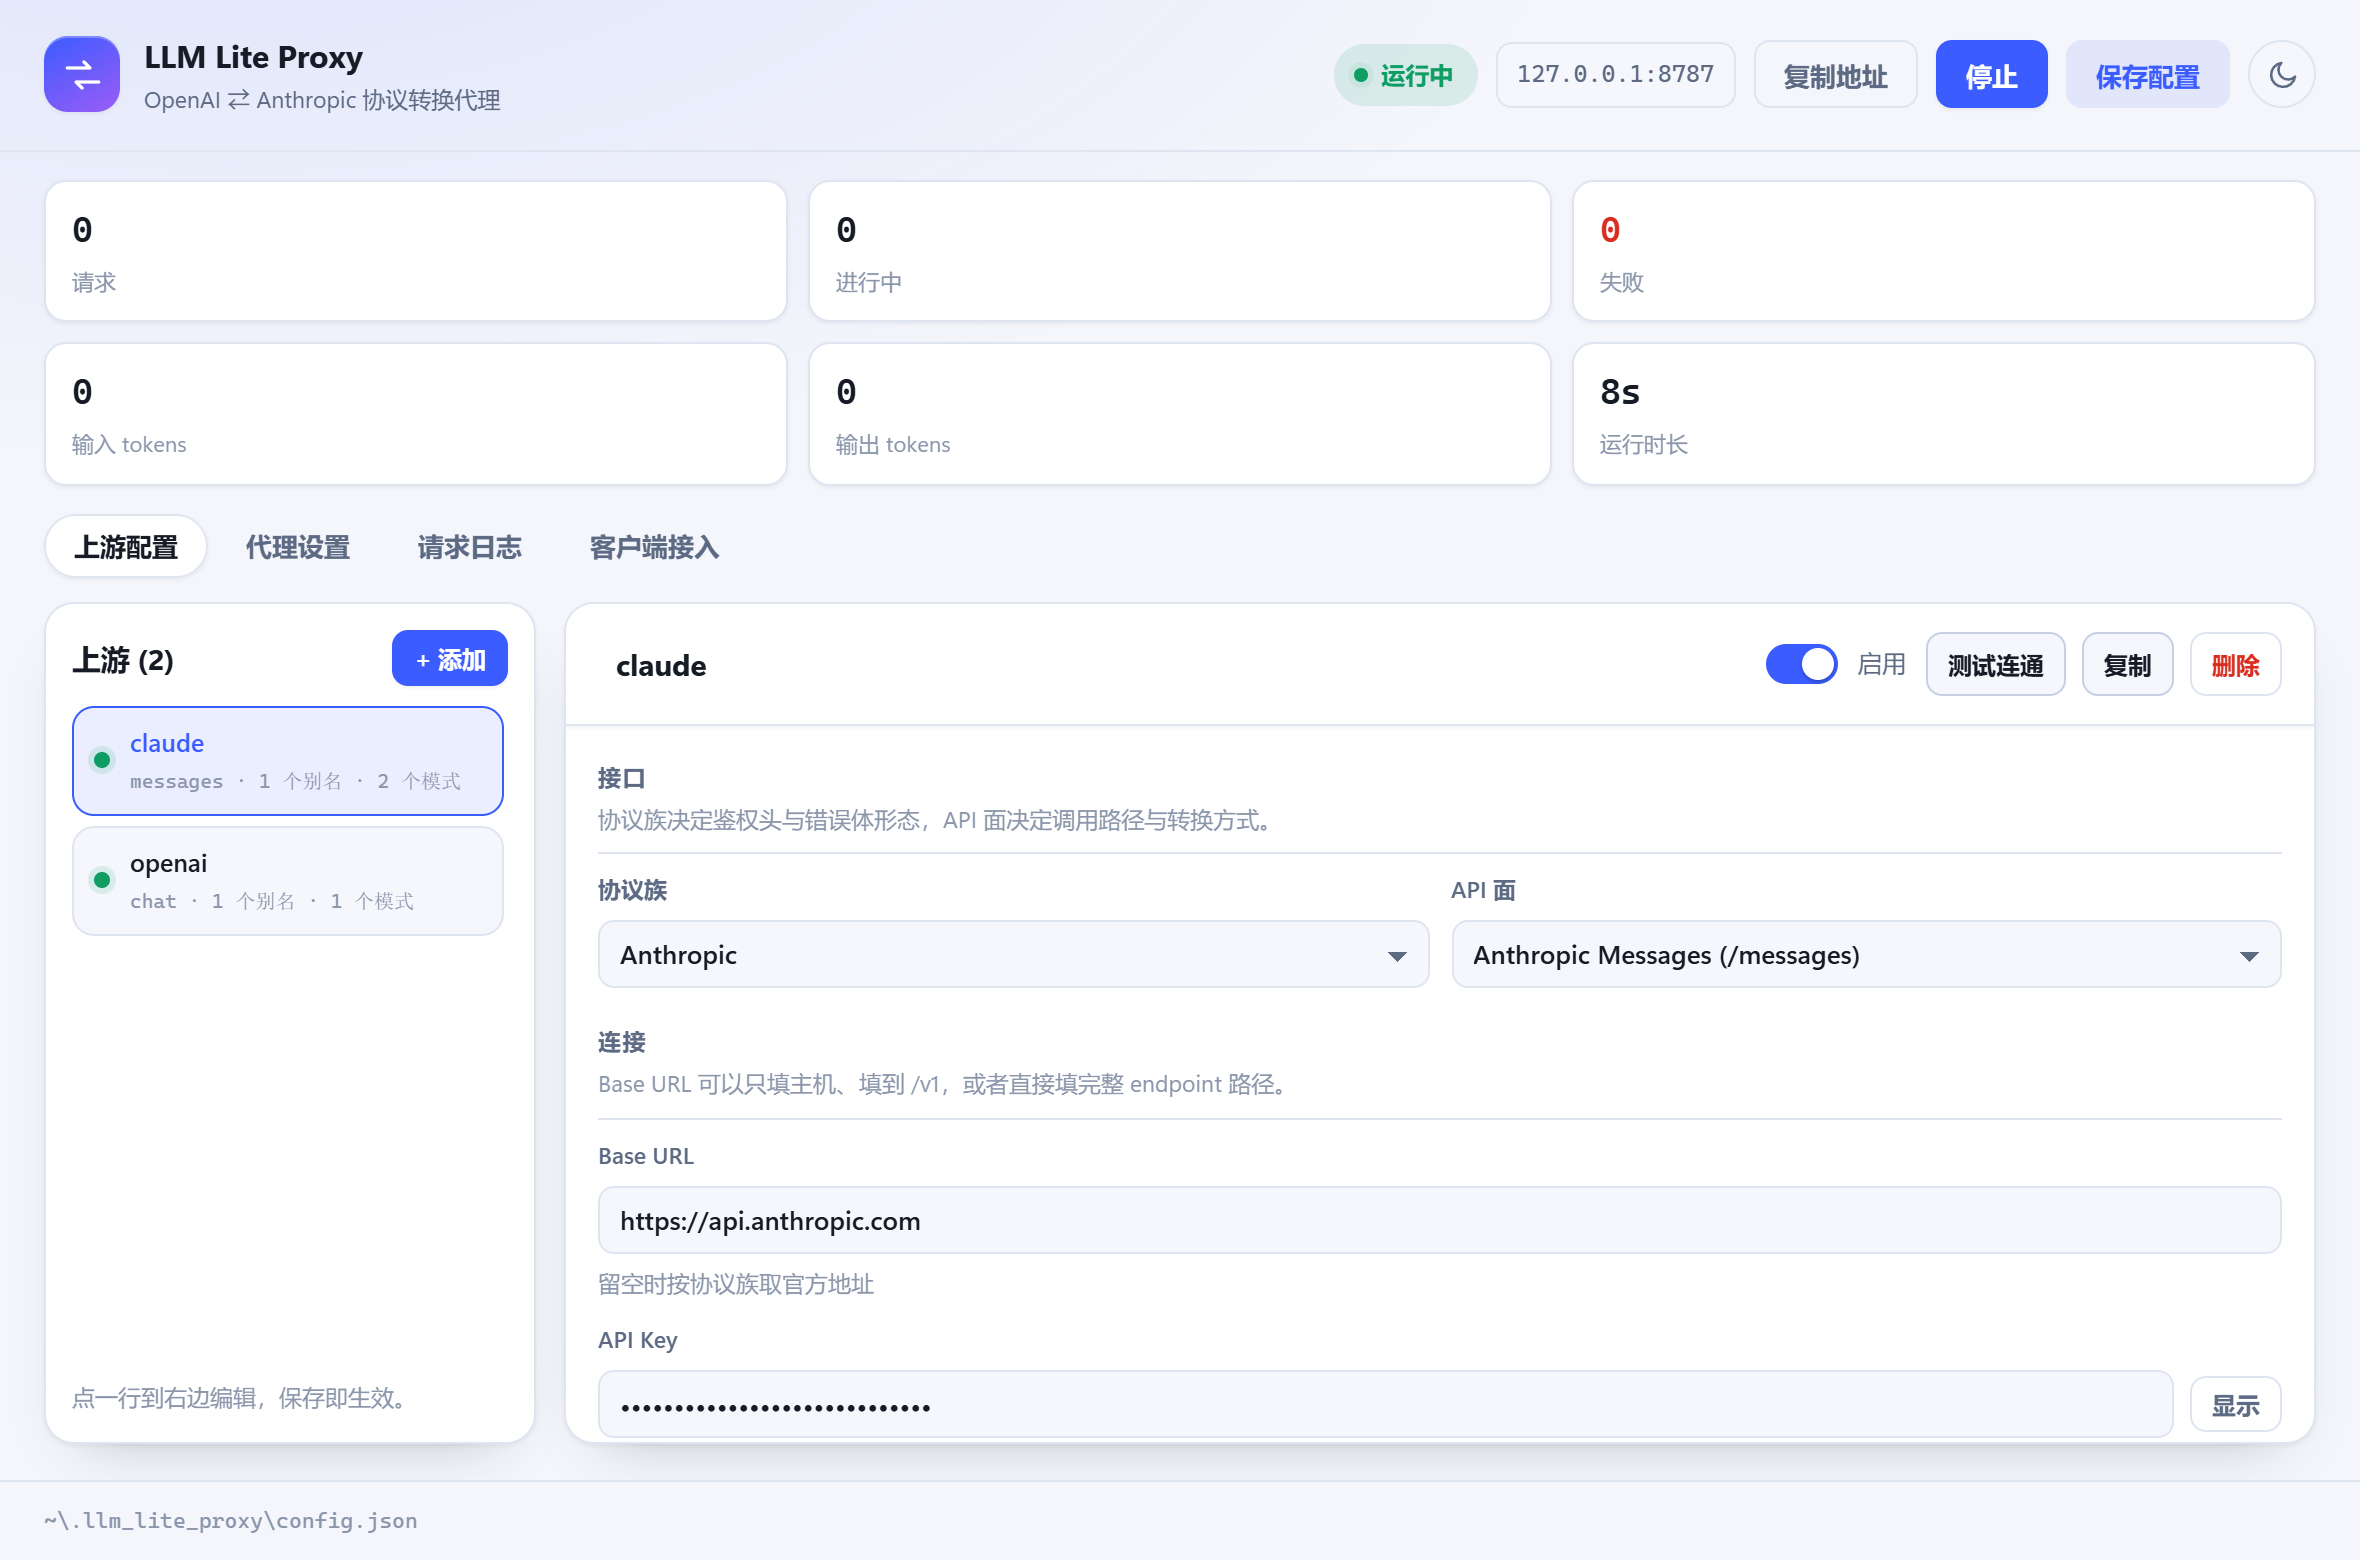
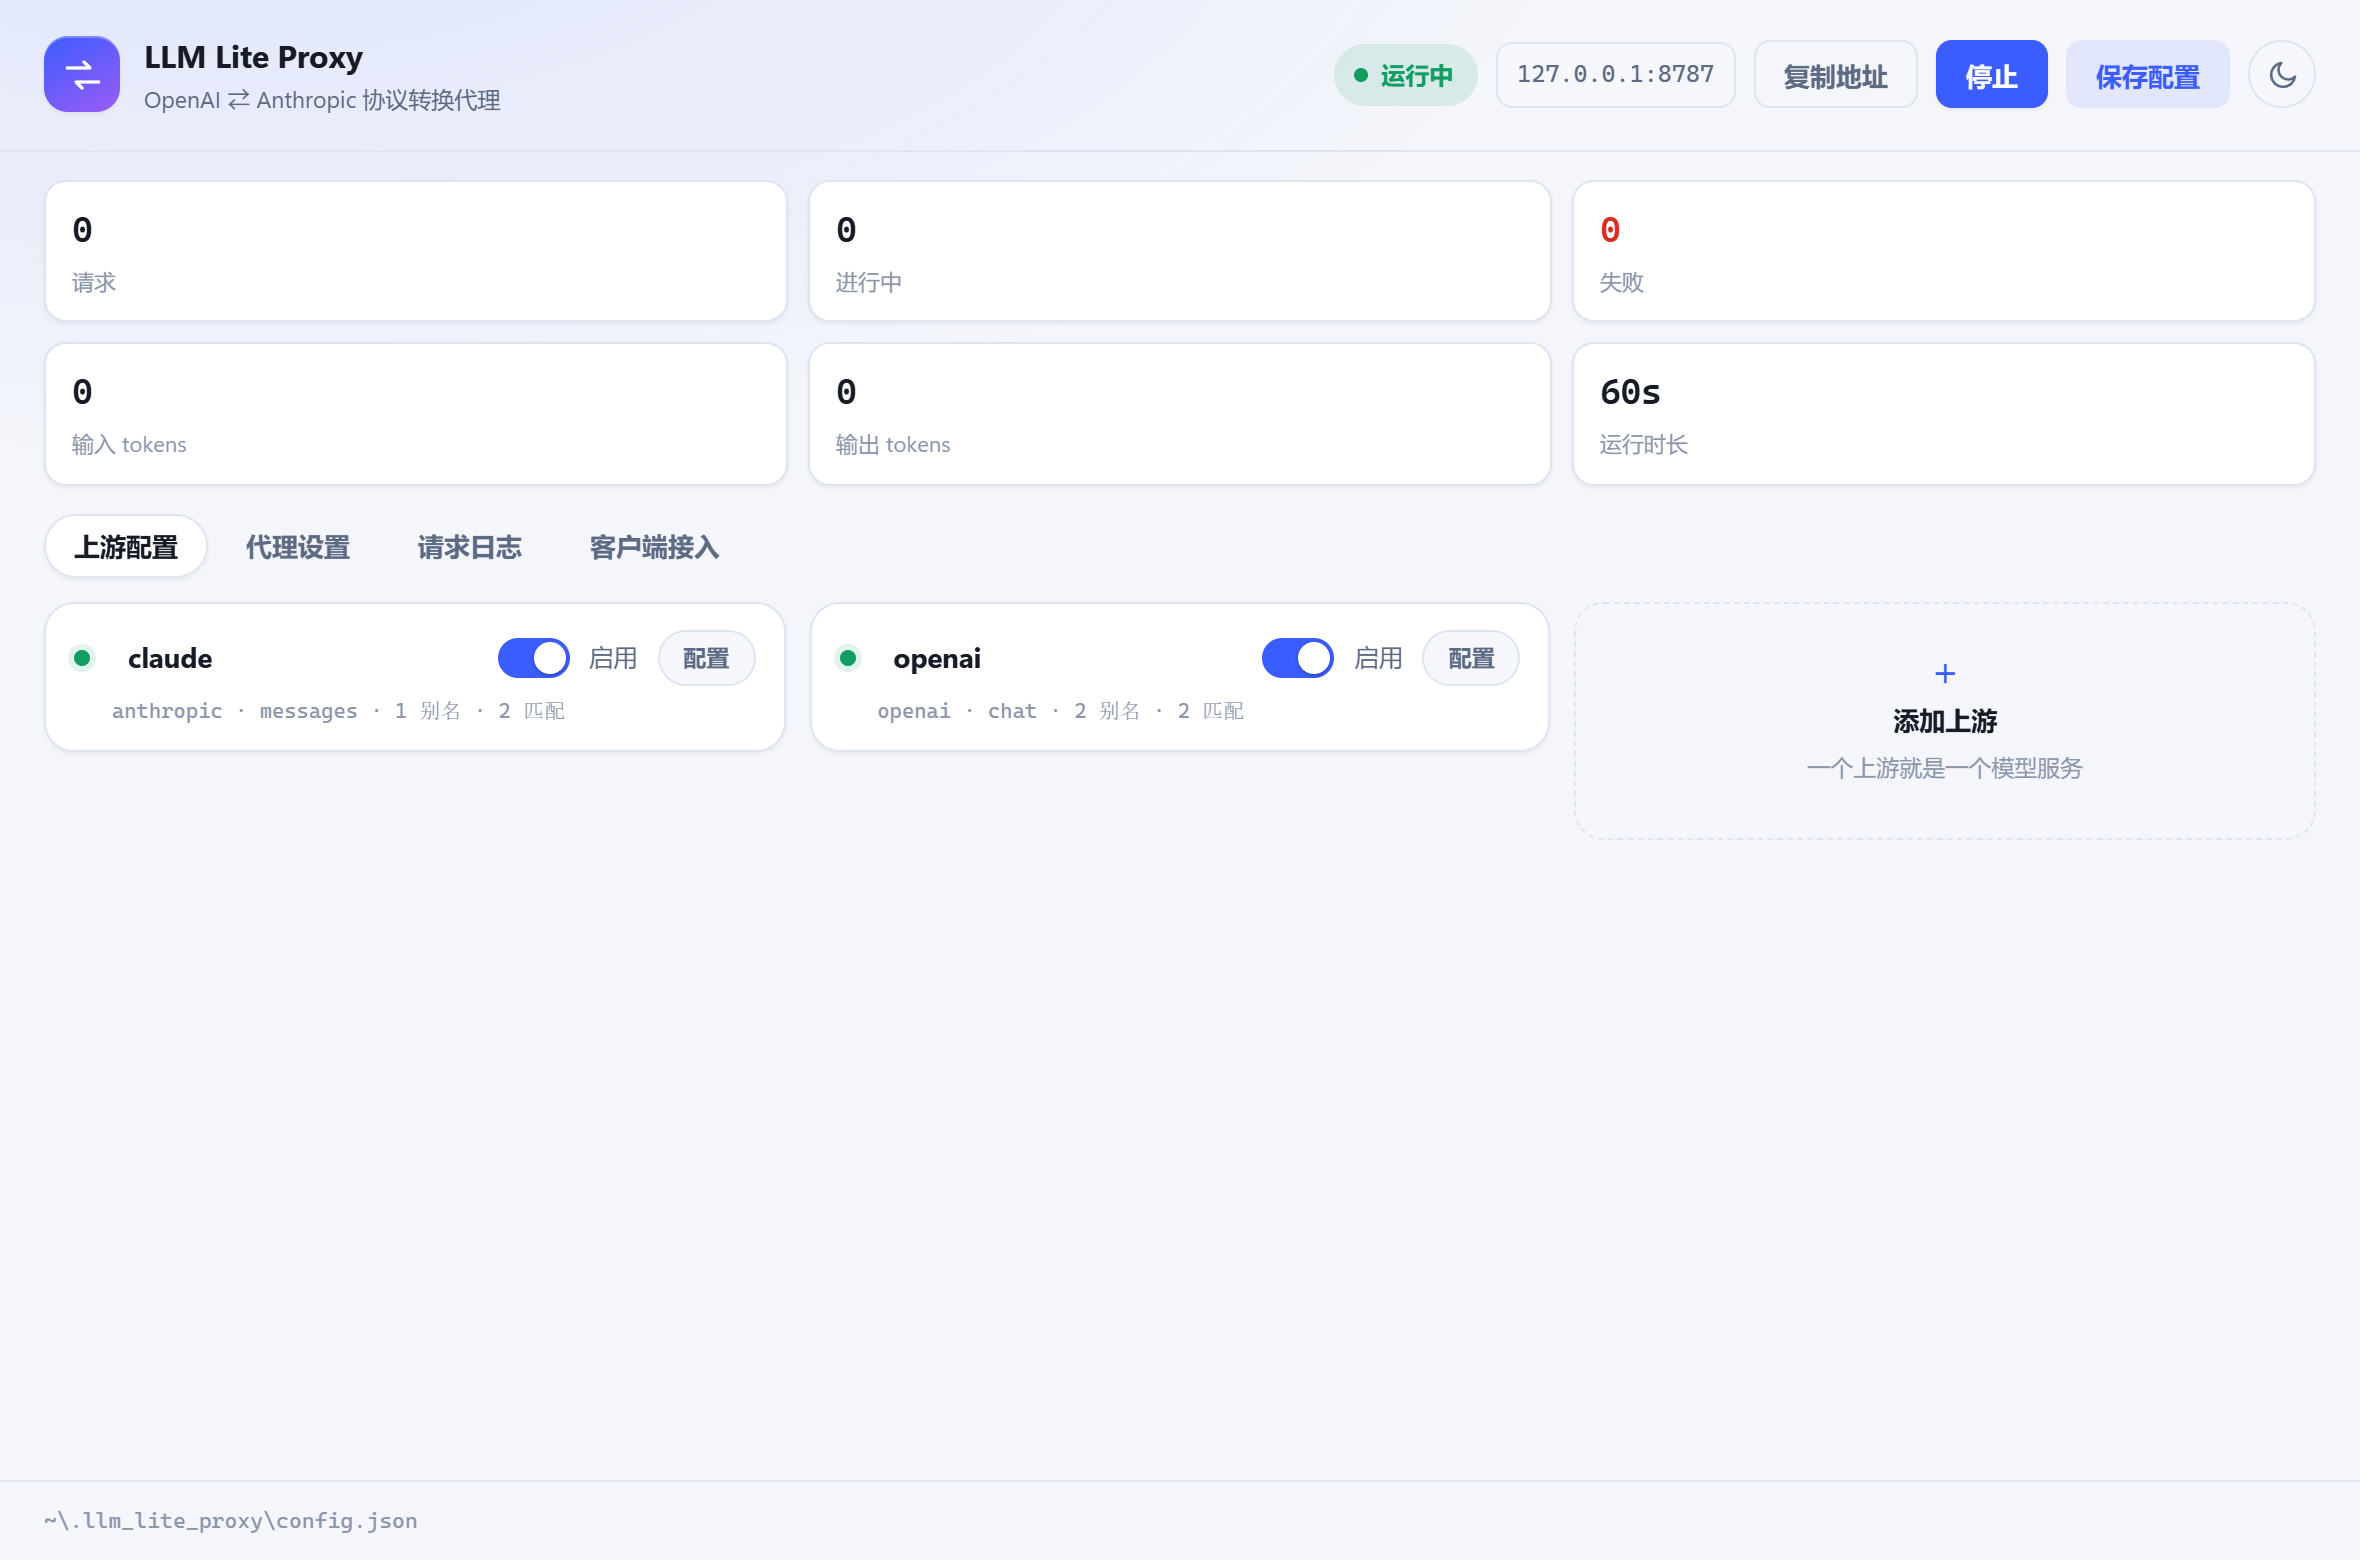
docs：按新界面重采截图，上游配置改成「一览 + 展开」两张图

diff --git a/README.en.md b/README.en.md
@@ -70,11 +70,13 @@ Silent command-line use works as well: `LLM Lite Proxy_x64-setup.exe /S` to inst
 
 ### Upstream configuration
 
+Each upstream is a card: the card header lets you rename it inline, shows the protocol summary and carries the enable switch; clicking the card (or its *Configure* button) expands the full form in place, and the opened card takes the whole row. The dashed card at the end is *Add upstream*.
+
+![The upstream cards at a glance](docs/images/01-upstream-config.png)
+
 One upstream is one model service. The **protocol family** is which protocol the upstream itself speaks, independent of what the client speaks; the **API surface** decides the call path. The Base URL can be just the host, the host down to `/v1`, or the full endpoint path; left empty it falls back to the official address of that family.
 
-![Upstream configuration: protocol family, API surface, Base URL, key, model aliases and match patterns](docs/images/01-upstream-config.png)
-
-Each upstream is a card: the card header lets you rename it inline, shows the protocol summary and carries the enable switch; clicking the card (or its *Configure* button) expands the full form in place, and the opened card takes the whole row. The dashed card at the end is *Add upstream*.
+![One card expanded: interface, connection, model routing and extra headers](docs/images/06-upstream-card-open.png)
 
 Everything you can set is on this page: the enabled switch, match patterns (glob), the model alias table (`public → upstream`), and extra request headers (the `anthropic-version`, `User-Agent` and similar that gateways require). *Test connection* sends one real request using what is currently in the form; you do not need to save first.
 

diff --git a/README.md b/README.md
@@ -70,11 +70,13 @@ Windows 安装包是 NSIS 生成的单文件 `LLM Lite Proxy_x.y.z_x64-setup.exe
 
 ### 上游配置
 
+每个上游是一张卡片：卡片头上能直接改名、看到协议摘要、开关启用状态；点卡片（或「配置」按钮）就地展开完整表单，展开的那一张会占满整行，末尾的虚线卡片是「添加上游」。
+
+![上游卡片一览](docs/images/01-upstream-config.png)
+
 一个上游就是一个模型服务。**协议族**选它自己说哪种协议，跟客户端用哪种无关；**API 面**决定调用路径。Base URL 可以只填主机、填到 `/v1`，或者直接填完整 endpoint 路径，留空则取该协议族的官方地址。
 
-![上游配置：协议族、API 面、Base URL、Key、模型别名与匹配模式](docs/images/01-upstream-config.png)
-
-每个上游是一张卡片：卡片头上能直接改名、看到协议摘要、开关启用状态；点卡片（或右侧的「配置」按钮）就地展开完整表单，展开的那一张会占满整行，最后一张虚线卡片是「添加上游」。
+![展开一张上游卡片：接口、连接、模型路由与附加请求头](docs/images/06-upstream-card-open.png)
 
 可填的东西都在这一页：启用开关、匹配模式（glob）、模型别名表（`public → upstream`）、附加请求头（网关要求的 `anthropic-version`、`User-Agent` 之类）。「测试连通」按当前填写的内容打一次真实请求，不用先保存。
 
